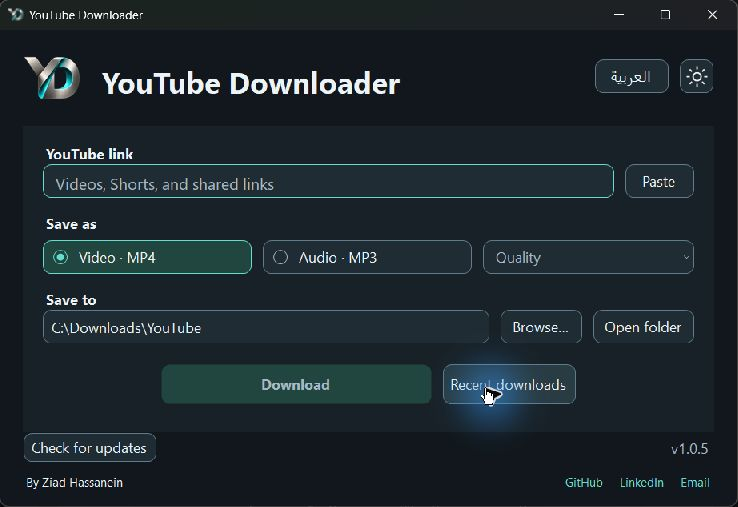
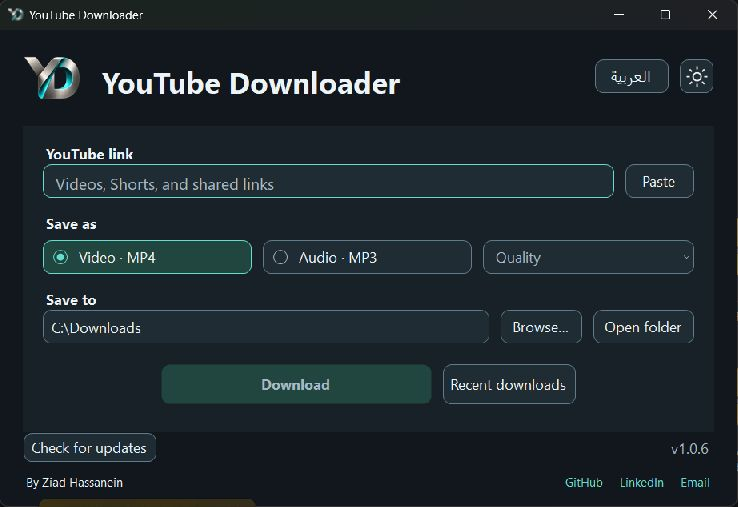
Default downloads to Downloads without a YouTube subfolder

diff --git a/src/App.cs b/src/App.cs
@@ -21,6 +21,7 @@ namespace YouTubeDownloader {
     }
     public sealed class SavedState {
         public string Folder;
+        public int FolderVersion;
         public string Theme = "Dark";
         public bool ThemeSelected;
         public string Language="en";
@@ -169,7 +170,7 @@ namespace YouTubeDownloader {
             quality.SelectedIndexChanged+=delegate { var bitrate=quality.SelectedItem as AudioQuality; if(bitrate!=null) state.AudioBitrate=bitrate.Bitrate; SaveState(); };
             quality.Dock=DockStyle.Fill; quality.Margin=new Padding(0); settings.Controls.Add(quality,4,1); Add(settings,18);
             Add(LabelFor("Save &to"),0);
-            folder.Text=String.IsNullOrWhiteSpace(state.Folder) ? Path.Combine(Environment.GetFolderPath(Environment.SpecialFolder.UserProfile),"Downloads","YouTube") : state.Folder;
+            folder.Text=InitialFolder(state.Folder,state.FolderVersion==0); state.FolderVersion=1;
             folder.Font=new Font("Segoe UI",11f); folder.AccessibleName=T("Save folder"); folder.RightToLeft=RightToLeft.No; folder.TextChanged+=delegate { SaveState(); };
             ConfigureButton(browse,"&Browse…"); browse.Width=104; browse.Height=44; browse.Click+=delegate { using(var dialog=new FolderBrowserDialog { Description=T("Choose where to save your YouTube downloads"),SelectedPath=Directory.Exists(folder.Text) ? folder.Text : Environment.GetFolderPath(Environment.SpecialFolder.UserProfile),ShowNewFolderButton=true }) { if(dialog.ShowDialog(this)==DialogResult.OK) folder.Text=dialog.SelectedPath; } };
             ConfigureButton(openFolder,"Open &folder"); openFolder.Width=128; openFolder.Height=44; openFolder.Click+=delegate { OpenDestination(); };
@@ -371,6 +372,16 @@ namespace YouTubeDownloader {
         }
         private void ApplyProgress(DownloadProgress p) { statusRow.Visible=true; statusHeading=p.Stage; statusMessage=p.Detail; statusIsProgress=true; statusMood=0; statusIcon.Tone=StatusTone.Info; stage.Text=T(p.Stage); stage.ForeColor=Ink; progressDetail.Text=Texts.Progress(state.Language,p.Detail); progressDetail.ForeColor=Muted; progress.Visible=true; progress.Style=p.Indeterminate ? ProgressBarStyle.Marquee : ProgressBarStyle.Continuous; if(!p.Indeterminate) progress.Value=(int)Math.Max(0,Math.Min(1000,p.Percent*10)); }
         private void SetStatus(string heading,string message,bool error) { statusRow.Visible=error || heading!="Ready for a video link"; statusHeading=heading; statusMessage=message; statusIsProgress=false; statusMood=error ? 1 : 0; statusIcon.Tone=error ? StatusTone.Error : StatusTone.Info; stage.Text=T(heading); stage.ForeColor=error ? colors.Error : Ink; progressDetail.Text=T(message); progressDetail.ForeColor=Muted; progress.Visible=false; if(error) { progress.Style=ProgressBarStyle.Continuous; progress.Value=0; } }
+        private static string InitialFolder(string saved,bool migrateLegacy) {
+            string downloads=Path.Combine(Environment.GetFolderPath(Environment.SpecialFolder.UserProfile),"Downloads");
+            if(String.IsNullOrWhiteSpace(saved)) return downloads;
+            if(migrateLegacy) {
+                string previous=saved.Trim().TrimEnd('\\','/');
+                foreach(string parent in new[]{downloads,Path.Combine(Path.GetPathRoot(downloads),"Downloads")})
+                    if(String.Equals(previous,Path.Combine(parent,"YouTube"),StringComparison.OrdinalIgnoreCase)) return parent;
+            }
+            return saved;
+        }
         private string DownloadFolder() { if(String.IsNullOrWhiteSpace(folder.Text)) throw new ArgumentException("Choose a save folder with Browse."); try { return Path.GetFullPath(folder.Text.Trim()); } catch { throw new ArgumentException("Choose a valid folder on this computer with Browse."); } }
         private void SafeUi(Action action) { if(IsDisposed || !IsHandleCreated) return; try { BeginInvoke(action); } catch(InvalidOperationException) { } }
         private static string FriendlyError(string message) {

diff --git a/tests/InterfaceChecks.cs b/tests/InterfaceChecks.cs
@@ -92,6 +92,20 @@ internal static class InterfaceChecks {
         string path=Path.Combine(AppDomain.CurrentDomain.BaseDirectory,"settings.json");
         string prior=File.Exists(path) ? File.ReadAllText(path) : null;
         try {
+            string downloads=Path.Combine(Environment.GetFolderPath(Environment.SpecialFolder.UserProfile),"Downloads");
+            var serializer=new System.Web.Script.Serialization.JavaScriptSerializer();
+            foreach(var sample in new[]{
+                new[]{"",downloads,"New settings default directly to Downloads"},
+                new[]{Path.Combine(downloads,"YouTube"),downloads,"The previous default migrates to Downloads"},
+                new[]{Path.Combine(Path.GetPathRoot(downloads),"Downloads","YouTube"),Path.Combine(Path.GetPathRoot(downloads),"Downloads"),"The previous example path drops its YouTube subfolder"},
+                new[]{@"D:\Custom\YouTube",@"D:\Custom\YouTube","Custom save folders are preserved"}
+            }) {
+                File.WriteAllText(path,serializer.Serialize(new SavedState { Folder=sample[0] }));
+                using(var sampleWindow=new MainWindow(false)) Assert(Field<TextBox>(sampleWindow,"folder").Text==sample[1],sample[2]);
+            }
+            string chosen=Path.Combine(downloads,"YouTube");
+            File.WriteAllText(path,serializer.Serialize(new SavedState { Folder=chosen,FolderVersion=1 }));
+            using(var sampleWindow=new MainWindow(false)) Assert(Field<TextBox>(sampleWindow,"folder").Text==chosen,"An explicitly chosen folder is not migrated again on later launches");
             double wheelRemainder=0; int wheelDistance=0;
             for(int step=0;step<8;step++) wheelDistance+=ThemeScrollHost.WheelDistance(15,3,200,16,ref wheelRemainder);
             Assert(wheelDistance==48,"Small trackpad wheel deltas accumulate to the same distance as one wheel notch");

diff --git a/src/AssemblyInfo.cs b/src/AssemblyInfo.cs
@@ -6,6 +6,6 @@ using System.Runtime.InteropServices;
 [assembly: AssemblyCompany("Ziad Hassanein")]
 [assembly: AssemblyProduct("YouTube Downloader")]
 [assembly: AssemblyCopyright("Copyright © 2026 Ziad Hassanein")]
-[assembly: AssemblyVersion("1.0.5.0")]
-[assembly: AssemblyFileVersion("1.0.5.0")]
+[assembly: AssemblyVersion("1.0.6.0")]
+[assembly: AssemblyFileVersion("1.0.6.0")]
 [assembly: ComVisible(false)]

diff --git a/README.md b/README.md
@@ -16,7 +16,7 @@ A desktop app for saving YouTube videos as MP4 or extracting MP3 audio. Paste a 
 
 ## Get started
 
-1. Download `YouTubeDownloader-v1.0.5-windows-x64.zip` from the release page.
+1. Download `YouTubeDownloader-v1.0.6-windows-x64.zip` from the release page.
 2. Extract the ZIP to a writable folder.
 3. If yt-dlp, FFmpeg, or Deno are missing, run `SetupTools.cmd` once. It installs only missing tools through Windows Package Manager.
 4. Open `YouTubeDownloader.exe`, paste a video link, and wait for its available qualities to appear.
@@ -34,6 +34,7 @@ Windows 10/11 x64 and .NET Framework 4.8 are required. Windows 11 includes the r
 - Progress, speed, cancellation, and resumable partial files.
 - Separate video filenames for different quality selections.
 - Existing completed files are preserved.
+- Defaults to Downloads without a YouTube subfolder; the previous default is migrated once and custom save folders are preserved.
 - Dark by default, with a sun/moon icon toggle and your theme choice remembered.
 - English with an LTR layout or Arabic with an RTL layout, selectable from the header and remembered.
 - Language changes repaint immediately and keep every active control visible.
